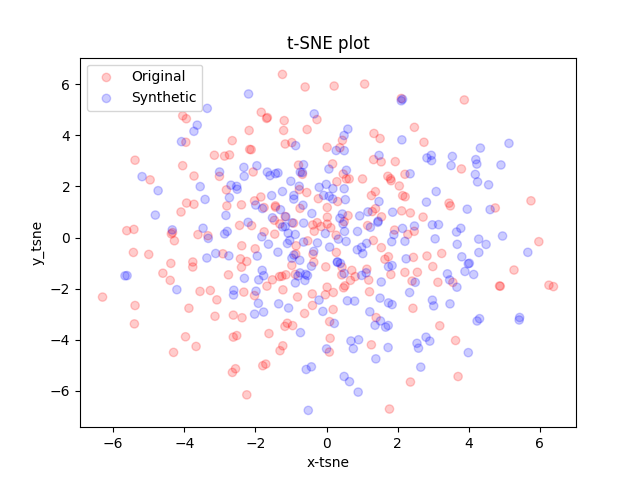
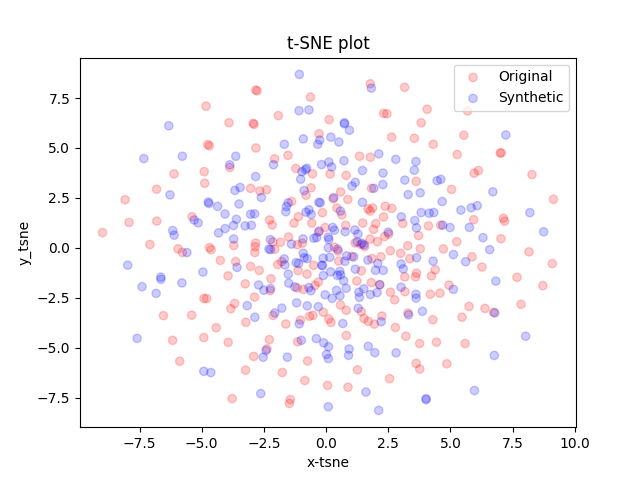
Adición de funciones de visualización y validación

diff --git a/TTS-GAN/tts-gan-tfm/visualizationMetrics.py b/TTS-GAN/tts-gan-tfm/visualizationMetrics.py
@@ -16,6 +16,8 @@ from sklearn.decomposition import PCA
 import matplotlib.pyplot as plt
 import numpy as np
 
+from statsmodels.stats.diagnostic import acorr_ljungbox
+
    
 def visualization (ori_data, generated_data, analysis, save_name):
     """Using PCA or tSNE for generated and original data visualization.
@@ -97,3 +99,138 @@ def visualization (ori_data, generated_data, analysis, save_name):
         
     plt.savefig(f'./images/{save_name}.png', format="png")
     plt.show()
+
+def JarqueBera(ori_data, generated_data):
+    """Prueba de normalidad Jarque-Bera comparando datos originales y generados.
+
+    Compara los p-values de la prueba JB aplicada a cada dimensión,
+    promediando sobre todas las features y muestras.
+
+    Args:
+        ori_data:       datos originales,   shape (N, seq_len, dim)
+        generated_data: datos sintéticos,   shape (N, seq_len, dim)
+
+    Returns:
+        jb_ori_mean:  media de p-values JB sobre datos originales
+        jb_gen_mean:  media de p-values JB sobre datos generados
+        jb_diff:      diferencia absoluta entre ambas medias
+    """
+    from scipy import stats
+
+    ori_data = np.asarray(ori_data)
+    generated_data = np.asarray(generated_data)
+
+    anal_sample_no = min(1000, len(ori_data))
+    idx = np.random.permutation(len(ori_data))[:anal_sample_no]
+    ori_data = ori_data[idx]
+    generated_data = generated_data[idx]
+
+    no, seq_len, dim = ori_data.shape
+
+    jb_ori_pvalues = []
+    jb_gen_pvalues = []
+
+    for d in range(dim):
+        # Aplanar la dimensión d sobre todas las muestras y pasos de tiempo
+        ori_flat = ori_data[:, :, d].flatten()
+        gen_flat = generated_data[:, :, d].flatten()
+
+        _, p_ori = stats.jarque_bera(ori_flat)
+        _, p_gen = stats.jarque_bera(gen_flat)
+
+        jb_ori_pvalues.append(p_ori)
+        jb_gen_pvalues.append(p_gen)
+
+    jb_ori_mean = np.mean(jb_ori_pvalues)
+    jb_gen_mean = np.mean(jb_gen_pvalues)
+    jb_diff     = np.abs(jb_ori_mean - jb_gen_mean)
+
+    return jb_ori_mean, jb_gen_mean, jb_diff
+
+
+def LjungBox(ori_data, generated_data, lags=10):
+    """Prueba de autocorrelación Ljung-Box comparando datos originales y generados.
+
+    Evalúa si las series temporales presentan autocorrelación significativa.
+    Un buen modelo generativo debería reproducir la estructura de autocorrelación
+    del proceso original.
+
+    Args:
+        ori_data:       datos originales,   shape (N, seq_len, dim)
+        generated_data: datos sintéticos,   shape (N, seq_len, dim)
+        lags:           número de retardos a evaluar (default: 10)
+
+    Returns:
+        lb_ori_mean:  media de p-values LB sobre datos originales
+        lb_gen_mean:  media de p-values LB sobre datos generados
+        lb_diff:      diferencia absoluta entre ambas medias
+    """
+
+    ori_data = np.asarray(ori_data)
+    generated_data = np.asarray(generated_data)
+
+    anal_sample_no = min(1000, len(ori_data))
+    idx = np.random.permutation(len(ori_data))[:anal_sample_no]
+    ori_data = ori_data[idx]
+    generated_data = generated_data[idx]
+
+    no, seq_len, dim = ori_data.shape
+
+    lb_ori_pvalues = []
+    lb_gen_pvalues = []
+
+    effective_lags = min(lags, seq_len - 1)
+
+    for i in range(no):
+        for d in range(dim):
+            ori_series = ori_data[i, :, d]
+            gen_series = generated_data[i, :, d]
+
+            lb_ori = acorr_ljungbox(ori_series, lags=[effective_lags], return_df=True)
+            lb_gen = acorr_ljungbox(gen_series, lags=[effective_lags], return_df=True)
+
+            lb_ori_pvalues.append(lb_ori['lb_pvalue'].values[-1])
+            lb_gen_pvalues.append(lb_gen['lb_pvalue'].values[-1])
+
+    lb_ori_mean = np.mean(lb_ori_pvalues)
+    lb_gen_mean = np.mean(lb_gen_pvalues)
+    lb_diff     = np.abs(lb_ori_mean - lb_gen_mean)
+
+    return lb_ori_mean, lb_gen_mean, lb_diff
+
+
+def FrobeniusDistance(ori_data, generated_data):
+    """Distancia de Frobenius entre las matrices de covarianza de los datos
+    originales y generados.
+
+    Mide qué tan bien el modelo generativo reproduce la estructura de
+    covarianza (correlaciones lineales entre features) del proceso real.
+
+    Args:
+        ori_data:       datos originales,   shape (N, seq_len, dim)
+        generated_data: datos sintéticos,   shape (N, seq_len, dim)
+
+    Returns:
+        frob_dist: distancia de Frobenius entre matrices de covarianza
+    """
+    ori_data = np.asarray(ori_data)
+    generated_data = np.asarray(generated_data)
+
+    anal_sample_no = min(1000, len(ori_data))
+    idx = np.random.permutation(len(ori_data))[:anal_sample_no]
+    ori_data = ori_data[idx]
+    generated_data = generated_data[idx]
+
+    no, seq_len, dim = ori_data.shape
+
+    # Aplanar a (N*seq_len, dim) para calcular la covarianza global
+    ori_flat = ori_data.reshape(-1, dim)
+    gen_flat = generated_data.reshape(-1, dim)
+
+    cov_ori = np.cov(ori_flat, rowvar=False)   # (dim, dim)
+    cov_gen = np.cov(gen_flat, rowvar=False)   # (dim, dim)
+
+    diff = cov_ori - cov_gen
+    frob_dist = np.linalg.norm(diff, ord='fro')
+
+    return frob_dist

diff --git a/TTS-GAN/tts-gan-tfm/eval.py b/TTS-GAN/tts-gan-tfm/eval.py
@@ -4,7 +4,7 @@ import torch
 
 from GANModels import Generator
 from dataLoader import portfolio_load_dataset
-from visualizationMetrics import visualization
+from visualizationMetrics import visualization, JarqueBera, LjungBox, FrobeniusDistance
 
 # 1) Cargar checkpoint (el mas reciente de logs/)
 logs_dir = os.path.join(os.path.dirname(__file__), "logs")
@@ -26,7 +26,7 @@ gen.eval()
 # 3) Datos reales (test o train)
 real_set = portfolio_load_dataset(
     data_mode="Test",  # o "Train"
-    assets=["SP500"],
+    assets=["UST10Y"],
     window_length=150,
     stride=1,
     train_ratio=0.8,
@@ -49,5 +49,17 @@ fake = np.transpose(fake.squeeze(2), (0, 2, 1))        # (N, T, C)
 
 # 5) Visualizacion (PCA o tSNE)
 os.makedirs("images", exist_ok=True)
-visualization(real, fake, analysis="pca", save_name="sp500_pca")
-visualization(real, fake, analysis="tsne", save_name="sp500_tsne")
+visualization(real, fake, analysis="pca", save_name="ust10y_pca")
+visualization(real, fake, analysis="tsne", save_name="ust10y_tsne")
+
+# 6) Jarque-Bera
+jb_ori_mean, jb_gen_mean, jb_diff = JarqueBera(real, fake)
+print(f"Jarque-Bera - Original: {jb_ori_mean}, Generated: {jb_gen_mean}, Difference: {jb_diff}")
+
+# 7) Ljung-Box
+lb_ori_mean, lb_gen_mean, lb_diff = LjungBox(real, fake)
+print(f"Ljung-Box - Original: {lb_ori_mean}, Generated: {lb_gen_mean}, Difference: {lb_diff}")
+
+# 8) Frobenius Distance
+frob_dist = FrobeniusDistance(real, fake)
+print(f"Frobenius Distance: {frob_dist}")

diff --git a/TTS-GAN/tts-gan-tfm/Train_SP500.py b/TTS-GAN/tts-gan-tfm/Train_SP500.py
@@ -16,7 +16,7 @@ os.system(f"CUDA_VISIBLE_DEVICES=0 python train_GAN.py \
 -gen_bs 64 \
 -dis_bs 64 \
 --dataset portfolio \
---asset SP500 \
+--asset UST10Y \
 --stride 1 \
 --normalize_mode zscore \
 --log_returns True \
@@ -58,5 +58,5 @@ os.system(f"CUDA_VISIBLE_DEVICES=0 python train_GAN.py \
 --ema_warmup 0.1 \
 --ema 0.9999 \
 --diff_aug translation,cutout,color \
---class_name SP500 \
---exp_name SP500")
+--class_name UST10Y \
+--exp_name UST10Y")